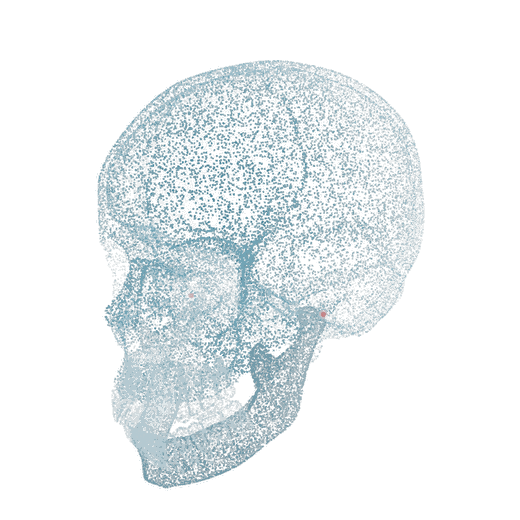
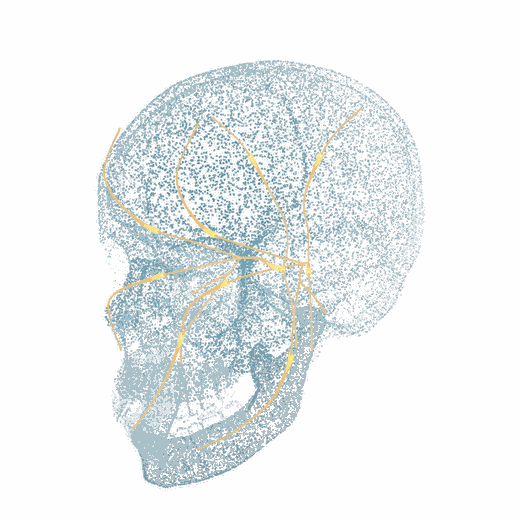
메인 대문: 턱관절 점 대신 삼차신경 신호 흐름
- 삼차신경절에서 눈·위턱·아래턱·턱관절 가지, 뇌간을 거쳐 뇌로 가는 길
- 말단에서 뇌 방향으로 노란 신호가 흐름, 정지 그림 갱신

diff --git a/index.html b/index.html
@@ -1261,22 +1261,22 @@ var gl=cv.getContext('webgl',{antialias:true,alpha:true,premultipliedAlpha:false
 var G=[[0,52000,0],[52000,15000,1],[67000,7000,2],[74000,7000,3]];
 var still=matchMedia('(prefers-reduced-motion: reduce)').matches||/[?&]still/.test(location.search);var vis=true;
 function sh(t,src){var o=gl.createShader(t);gl.shaderSource(o,src);gl.compileShader(o);return o}
-var vs='attribute vec3 p;attribute float g;uniform float ry,rx,jaw,sc,asp,dpr;varying float va;varying float vg;'
+var vs='attribute vec3 p;attribute float g;attribute float s;uniform float ry,rx,jaw,sc,asp,dpr,tm;varying float va;varying float vg;varying float vp;'
 +'void main(){vec3 q=vec3(p.x,p.z,-p.y);'
-+'if(g>.5&&g<3.5&&g!=2.){vec2 h=vec2(-.246,.0586);float c=cos(jaw),s=sin(jaw);vec2 d=q.yz-h;q.yz=h+vec2(d.x*c-d.y*s,d.x*s+d.y*c);q.z+=jaw*.12;}'
++'if((g>.5&&g<3.5&&g!=2.)||g>5.5){vec2 h=vec2(-.246,.0586);float c=cos(jaw),s=sin(jaw);vec2 d=q.yz-h;q.yz=h+vec2(d.x*c-d.y*s,d.x*s+d.y*c);q.z+=jaw*.12;}'
 +'float cy=cos(ry),sy=sin(ry);q=vec3(q.x*cy+q.z*sy,q.y,-q.x*sy+q.z*cy);'
 +'float cx=cos(rx),sx=sin(rx);q=vec3(q.x,q.y*cx-q.z*sx,q.y*sx+q.z*cx);'
 +'float k=1./(1.-q.z*.22);gl_Position=vec4(q.x*sc*k/asp,(q.y+.02)*sc*k,0.,1.);'
-+'float f=clamp(q.z*.5+.5,0.,1.);vg=g;'
-+'if(g>3.5){gl_PointSize=dpr*16.;va=.35+.65*f;}else{gl_PointSize=dpr*(1.15+1.6*f);va=.14+.8*f*f;}}';
-var fs='precision mediump float;varying float va;varying float vg;'
++'float f=clamp(q.z*.5+.5,0.,1.);vg=g;vp=0.;'
++'if(g>3.5){float ph=fract(s*1.4-tm*.55);vp=pow(ph,7.);gl_PointSize=dpr*(3.+6.*vp);va=(.6+.4*f)*(.72+.28*vp);}else{gl_PointSize=dpr*(1.15+1.6*f);va=.14+.8*f*f;}}';
+var fs='precision mediump float;varying float va;varying float vg;varying float vp;'
 +'void main(){vec2 d=gl_PointCoord-.5;float r=dot(d,d);if(r>.25)discard;'
 +'vec3 c=vec3(.09,.43,.55);if(vg>.5&&vg<1.5)c=vec3(.06,.31,.41);if(vg>1.5&&vg<3.5)c=vec3(.07,.33,.43);'
-+'float a=va;if(vg>1.5&&vg<3.5)a*=.5;if(vg>3.5){c=vec3(.84,.27,.27);a=va*(smoothstep(.25,.0,r)*.55+step(r,.035)*.45);}'
++'float a=va;if(vg>1.5&&vg<3.5)a*=.5;if(vg>3.5){c=mix(vec3(.90,.55,.0),vec3(1.,.90,.25),vp);c=mix(c,vec3(1.,1.,.85),vp*step(r,.04));a=va*smoothstep(.25,.08,r);}'
 +'gl_FragColor=vec4(c,a);}';
 var pr=gl.createProgram();gl.attachShader(pr,sh(gl.VERTEX_SHADER,vs));gl.attachShader(pr,sh(gl.FRAGMENT_SHADER,fs));gl.linkProgram(pr);
 if(!gl.getProgramParameter(pr,gl.LINK_STATUS))return;gl.useProgram(pr);
-var U={};['ry','rx','jaw','sc','asp','dpr'].forEach(function(n){U[n]=gl.getUniformLocation(pr,n)});
+var U={};['ry','rx','jaw','sc','asp','dpr','tm'].forEach(function(n){U[n]=gl.getUniformLocation(pr,n)});
 var n=0,ry=-.75,vel=0,drag=false,lx=0,t0=0,dpr=1;
 function size(){dpr=Math.min(devicePixelRatio||1,2);var w=cv.clientWidth,h=cv.clientHeight;cv.width=w*dpr;cv.height=h*dpr;gl.viewport(0,0,cv.width,cv.height);
 gl.uniform1f(U.asp,w/h);gl.uniform1f(U.dpr,dpr);gl.uniform1f(U.sc,Math.min(.74,.98*w/h));if(n&&still)requestAnimationFrame(frame);}
@@ -1284,18 +1284,37 @@ function frame(t){if(!t0)t0=t;var s=(t-t0)/1000;
 if(!drag){ry+=still?0:.0035+vel;vel*=.94}
 var jaw=still?.05:Math.max(0,Math.sin(s*.9-1.2))*.30;
 gl.clearColor(0,0,0,0);gl.clear(gl.COLOR_BUFFER_BIT);
-gl.uniform1f(U.ry,ry);gl.uniform1f(U.rx,.10);gl.uniform1f(U.jaw,jaw);
+gl.uniform1f(U.ry,ry);gl.uniform1f(U.rx,.10);gl.uniform1f(U.jaw,jaw);gl.uniform1f(U.tm,still?1.3:s);
 gl.drawArrays(gl.POINTS,0,n);if(vis&&(!still||drag||Math.abs(vel)>.0005))requestAnimationFrame(frame);}
 cv.addEventListener('pointerdown',function(e){drag=true;lx=e.clientX;vel=0;try{cv.setPointerCapture(e.pointerId)}catch(_){}});
 cv.addEventListener('pointermove',function(e){if(!drag)return;var d=(e.clientX-lx)*.008;ry+=d;vel=d*.5;lx=e.clientX;if(still)requestAnimationFrame(frame)});
 ['pointerup','pointercancel'].forEach(function(k){cv.addEventListener(k,function(){drag=false})});
+function nerve(){
+var C=[-.64,-96.07,1536.94],H=101.26,out=[];
+var GA=[22,-88,1534];
+// [점들(mm, 오른쪽 기준), 무리(5=머리뼈 쪽, 6=아래턱 쪽), 시작 위상, 끝 위상]  신호는 말단에서 신경절, 뇌간, 뇌 쪽으로 흐른다
+var paths=[
+ [[[27,-166,1602],[25,-177,1578],[21,-158,1556],[18,-126,1545],GA],5,0,1],
+ [[[21,-172,1495],[27,-174,1519],[23,-150,1528],[20,-118,1532],GA],5,0,1],
+ [[[47,-101,1513],[36,-97,1520],[25,-94,1526],GA],5,.55,1],
+ [[[39,-117,1492],[30,-104,1512],[25,-94,1526]],5,.5,.8],
+ [[[23,-166,1457],[30,-150,1462],[37,-130,1474],[39,-117,1492]],6,0,.5],
+ [[GA,[17,-78,1533],[9,-68,1528],[7,-66,1548],[11,-74,1568],[30,-78,1596],[52,-80,1612]],5,1,2.3],
+ [[[9,-68,1528],[6,-62,1504],[5,-60,1482]],5,1.2,1.6]
+];
+function cr(a,b,c,d,t){return .5*((2*b)+(-a+c)*t+(2*a-5*b+4*c-d)*t*t+(-a+3*b-3*c+d)*t*t*t)}
+[1,-1].forEach(function(sd){paths.forEach(function(pa){var pt=pa[0],n=pt.length,segs=[],tot=0;
+ for(var i=0;i<n-1;i++){var a=pt[Math.max(i-1,0)],b=pt[i],c=pt[i+1],d=pt[Math.min(i+2,n-1)],L=Math.hypot(c[0]-b[0],c[1]-b[1],c[2]-b[2]);segs.push([a,b,c,d,L,tot]);tot+=L}
+ segs.forEach(function(sg){var k=Math.ceil(sg[4]/.45);for(var j=0;j<k;j++){var t=j/k,u=(sg[5]+t*sg[4])/tot;
+  out.push(sd*(cr(sg[0][0],sg[1][0],sg[2][0],sg[3][0],t)-C[0])/H,(cr(sg[0][1],sg[1][1],sg[2][1],sg[3][1],t)-C[1])/H,(cr(sg[0][2],sg[1][2],sg[2][2],sg[3][2],t)-C[2])/H,pa[1],pa[2]+(pa[3]-pa[2])*u)}})})});
+return out}
 function start(){fetch('img/skull.bin').then(function(r){return r.arrayBuffer()}).then(function(b){
-var q=new Int16Array(b),m=q.length/3,N=m+2,P=new Float32Array(N*3),Gi=new Float32Array(N);
+var q=new Int16Array(b),m=q.length/3,NV=nerve(),N=m+NV.length/5,P=new Float32Array(N*3),Gi=new Float32Array(N),Si=new Float32Array(N);
 for(var i=0;i<q.length;i++)P[i]=q[i]/32767;
 G.forEach(function(g){for(var i=g[0];i<g[0]+g[1];i++)Gi[i]=g[2]});
-[[-.47,-.0586,-.246],[.47,-.0586,-.246]].forEach(function(c,k){P.set(c,(m+k)*3);Gi[m+k]=4});
+for(var i=0;i<NV.length/5;i++){P[(m+i)*3]=NV[i*5];P[(m+i)*3+1]=NV[i*5+1];P[(m+i)*3+2]=NV[i*5+2];Gi[m+i]=NV[i*5+3];Si[m+i]=NV[i*5+4]}
 function buf(d,name,sz){var o=gl.createBuffer();gl.bindBuffer(gl.ARRAY_BUFFER,o);gl.bufferData(gl.ARRAY_BUFFER,d,gl.STATIC_DRAW);var l=gl.getAttribLocation(pr,name);gl.enableVertexAttribArray(l);gl.vertexAttribPointer(l,sz,gl.FLOAT,false,0,0)}
-buf(P,'p',3);buf(Gi,'g',1);n=N;gl.enable(gl.BLEND);gl.blendFunc(gl.SRC_ALPHA,gl.ONE_MINUS_SRC_ALPHA);
+buf(P,'p',3);buf(Gi,'g',1);buf(Si,'s',1);n=N;gl.enable(gl.BLEND);gl.blendFunc(gl.SRC_ALPHA,gl.ONE_MINUS_SRC_ALPHA);
 size();addEventListener('resize',size);cv.classList.add('on');var ps=document.getElementById('skullposter');if(ps)ps.classList.add('off');requestAnimationFrame(frame);
 if('IntersectionObserver' in window)new IntersectionObserver(function(e){var v=e[0].isIntersecting;if(v&&!vis){vis=true;requestAnimationFrame(frame)}else vis=v}).observe(cv);})}
 if(document.readyState==='complete')start();else addEventListener('load',start);
